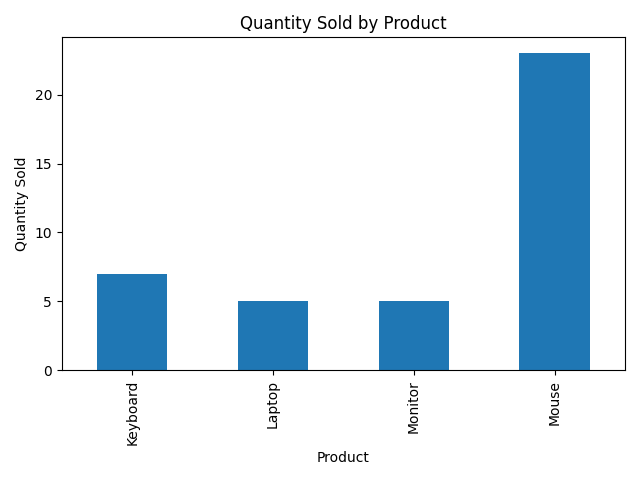
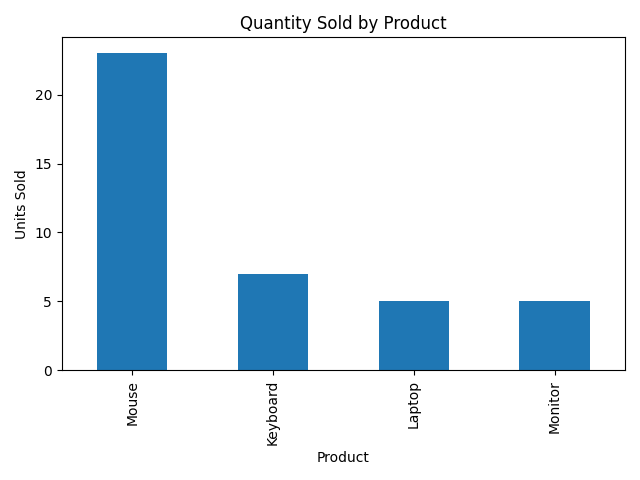
Improve sales analysis and documentation

diff --git a/sales_analysis.py b/sales_analysis.py
@@ -1,47 +1,129 @@
+
 import pandas as pd
 import matplotlib.pyplot as plt
+from pathlib import Path
 
-# Load the sales dataset
+# Load sales data
 df = pd.read_csv("sales.csv")
 
-# Calculate revenue for each order
-df["Revenue"] = df["Quantity"] * df["Price"]
-
-# Display the dataset
-print("\nSALES DATA")
-print(df)
-
-# Calculate total revenue
-total_revenue = df["Revenue"].sum()
-print("\nTotal Revenue:", total_revenue)
-
-# Find the best-selling products by quantity
-product_sales = df.groupby("Product")["Quantity"].sum()
-print("\nQuantity Sold by Product")
-print(product_sales)
-
-# Calculate monthly revenue
+# Clean and prepare data
 df["Date"] = pd.to_datetime(df["Date"])
+df["Revenue"] = df["Quantity"] * df["Price"]
 df["Month"] = df["Date"].dt.to_period("M").astype(str)
 
-monthly_sales = df.groupby("Month")["Revenue"].sum()
-print("\nMonthly Revenue")
-print(monthly_sales)
+# Key performance indicators
+total_revenue = df["Revenue"].sum()
+total_units = df["Quantity"].sum()
+total_orders = df["OrderID"].nunique()
+average_order_value = total_revenue / total_orders
 
-# Create a product sales chart
-product_sales.plot(kind="bar", title="Quantity Sold by Product")
+# Product analysis
+product_quantity = df.groupby("Product")["Quantity"].sum()
+product_revenue = df.groupby("Product")["Revenue"].sum()
+
+top_selling_product = product_quantity.idxmax()
+top_revenue_product = product_revenue.idxmax()
+
+# Monthly analysis
+monthly_revenue = df.groupby("Month")["Revenue"].sum()
+best_month = monthly_revenue.idxmax()
+
+# Category analysis
+category_revenue = df.groupby("Category")["Revenue"].sum()
+top_category = category_revenue.idxmax()
+
+# Display results
+print("\n===== SALES ANALYSIS REPORT =====")
+print(f"Total Revenue: Rs. {total_revenue:,.2f}")
+print(f"Total Units Sold: {total_units}")
+print(f"Total Orders: {total_orders}")
+print(f"Average Order Value: Rs. {average_order_value:,.2f}")
+
+print("\nQuantity Sold by Product:")
+print(product_quantity.sort_values(ascending=False))
+
+print("\nRevenue by Product:")
+print(product_revenue.sort_values(ascending=False))
+
+print("\nMonthly Revenue:")
+print(monthly_revenue)
+
+print("\nRevenue by Category:")
+print(category_revenue.sort_values(ascending=False))
+
+print(f"\nTop-selling product by quantity: {top_selling_product}")
+print(f"Product generating highest revenue: {top_revenue_product}")
+print(f"Best month: {best_month}")
+print(f"Top revenue category: {top_category}")
+
+# Save product quantity chart
+product_quantity.sort_values(ascending=False).plot(
+    kind="bar", title="Quantity Sold by Product"
+)
 plt.xlabel("Product")
-plt.ylabel("Quantity Sold")
+plt.ylabel("Units Sold")
 plt.tight_layout()
 plt.savefig("product_sales.png")
-plt.show()
+plt.close()
 
-# Create a monthly revenue chart
-monthly_sales.plot(kind="bar", title="Monthly Revenue")
+# Save monthly revenue chart
+monthly_revenue.plot(
+    kind="bar", title="Monthly Revenue"
+)
 plt.xlabel("Month")
 plt.ylabel("Revenue (Rs.)")
 plt.tight_layout()
 plt.savefig("monthly_revenue.png")
-plt.show()
+plt.close()
 
-print("\nAnalysis completed successfully!")
+# Save category revenue chart
+category_revenue.plot(
+    kind="bar", title="Revenue by Category"
+)
+plt.xlabel("Category")
+plt.ylabel("Revenue (Rs.)")
+plt.tight_layout()
+plt.savefig("category_revenue.png")
+plt.close()
+
+# Generate business insights report
+report = f"""# Sales Data Analysis: Business Insights
+
+## Dataset Summary
+- Total revenue: Rs. {total_revenue:,.2f}
+- Total units sold: {total_units}
+- Unique orders: {total_orders}
+- Average order value: Rs. {average_order_value:,.2f}
+
+## Key Findings
+- Top product by quantity sold: {top_selling_product}
+  ({product_quantity[top_selling_product]} units).
+- Highest-revenue product: {top_revenue_product}
+  (Rs. {product_revenue[top_revenue_product]:,.2f}).
+- Highest-revenue month: {best_month}
+  (Rs. {monthly_revenue[best_month]:,.2f}).
+- Highest-revenue category: {top_category}
+  (Rs. {category_revenue[top_category]:,.2f}).
+
+## Business Recommendations
+1. Review laptop pricing, costs, and inventory because laptops
+   generate the highest product revenue.
+2. Maintain suitable mouse inventory because it has the highest
+   sales quantity in this dataset.
+3. Investigate what contributed to March's higher revenue and
+   check whether the pattern continues in future months.
+4. Compare product costs and profit margins before deciding
+   which products are the most profitable.
+
+## Limitations
+This is a small sample dataset covering three months.
+Revenue is not the same as profit because product costs,
+operating expenses, and other costs are not provided.
+The findings should not be treated as evidence of long-term trends.
+"""
+
+Path("insights.md").write_text(report, encoding="utf-8")
+
+print("\nCharts saved successfully.")
+print("Business insights saved to insights.md")
+print("Analysis completed!")

diff --git a/README.md b/README.md
@@ -1,31 +1,78 @@
 
-# Sales Data Analysis
+# Sales Data Analysis Using Python
 
 ## Project Overview
-This beginner-friendly project analyzes sales data using Python.
+This project analyzes sample sales data using Python to identify revenue trends, product performance, and category-level sales. It demonstrates fundamental data analysis skills through data processing, calculations, visualization, and business recommendations.
 
-## Tools Used
+## Objectives
+- Calculate total revenue and average order value.
+- Identify best-selling products by quantity.
+- Find products generating the highest revenue.
+- Analyze monthly revenue trends.
+- Compare revenue across product categories.
+- Provide data-driven business recommendations.
+
+## Tools and Technologies
 - Python
 - Pandas
 - Matplotlib
-- VS Code
+- CSV
+- Visual Studio Code
+- GitHub
 
-## Objectives
-- Calculate total sales revenue.
-- Identify best-selling products.
-- Analyze monthly revenue.
-- Visualize sales trends using charts.
+## Project Structure
+- `sales.csv` — Sample sales dataset.
+- `sales_analysis.py` — Python analysis script.
+- `product_sales.png` — Product quantity chart.
+- `monthly_revenue.png` — Monthly revenue chart.
+- `category_revenue.png` — Category revenue chart.
+- `insights.md` — Business insights and recommendations.
+- `README.md` — Project documentation.
 
-## How to Run
-1. Install the required libraries:
+## Key Performance Indicators
+The Python script calculates:
+- Total revenue
+- Total units sold
+- Number of unique orders
+- Average order value
+- Revenue by product
+- Revenue by month
+- Revenue by category
+
+## Visualizations
+
+### Product Sales
+![Quantity Sold by Product](product_sales.png)
+
+### Monthly Revenue
+![Monthly Revenue](monthly_revenue.png)
+
+### Category Revenue
+![Revenue by Category](category_revenue.png)
+
+## How to Run the Project
+
+1. Install Python.
+2. Install the required libraries:
+
    `python -m pip install pandas matplotlib`
-2. Run the program:
+
+3. Run the analysis:
+
    `python sales_analysis.py`
 
-## Files
-- `sales.csv`: Sample sales dataset.
-- `sales_analysis.py`: Python analysis code.
-- `README.md`: Project documentation.
+4. Review the terminal results, generated charts, and `insights.md`.
 
-## Expected Result
-The program calculates sales revenue and generates product sales and monthly revenue charts.
+## Business Insights
+The script identifies the highest-selling product by quantity, the product generating the highest revenue, the best month by revenue, and the highest-revenue category.
+
+See `insights.md` for the calculated findings and recommendations.
+
+## Dataset Limitations
+This project uses a small sample dataset covering three months. Revenue does not represent profit because product costs and operating expenses are not included. Results are illustrative and should not be treated as long-term business trends.
+
+## Author
+Naveen A
+
+## Project Repository
+https://github.com/naveenayoor2005/Sales-Data-Analysis

diff --git a/insights.md b/insights.md
@@ -1,0 +1,33 @@
+# Sales Data Analysis: Business Insights
+
+## Dataset Summary
+- Total revenue: Rs. 329,900.00
+- Total units sold: 40
+- Unique orders: 10
+- Average order value: Rs. 32,990.00
+
+## Key Findings
+- Top product by quantity sold: Mouse
+  (23 units).
+- Highest-revenue product: Laptop
+  (Rs. 250,000.00).
+- Highest-revenue month: 2026-03
+  (Rs. 144,800.00).
+- Highest-revenue category: Electronics
+  (Rs. 310,000.00).
+
+## Business Recommendations
+1. Review laptop pricing, costs, and inventory because laptops
+   generate the highest product revenue.
+2. Maintain suitable mouse inventory because it has the highest
+   sales quantity in this dataset.
+3. Investigate what contributed to March's higher revenue and
+   check whether the pattern continues in future months.
+4. Compare product costs and profit margins before deciding
+   which products are the most profitable.
+
+## Limitations
+This is a small sample dataset covering three months.
+Revenue is not the same as profit because product costs,
+operating expenses, and other costs are not provided.
+The findings should not be treated as evidence of long-term trends.
